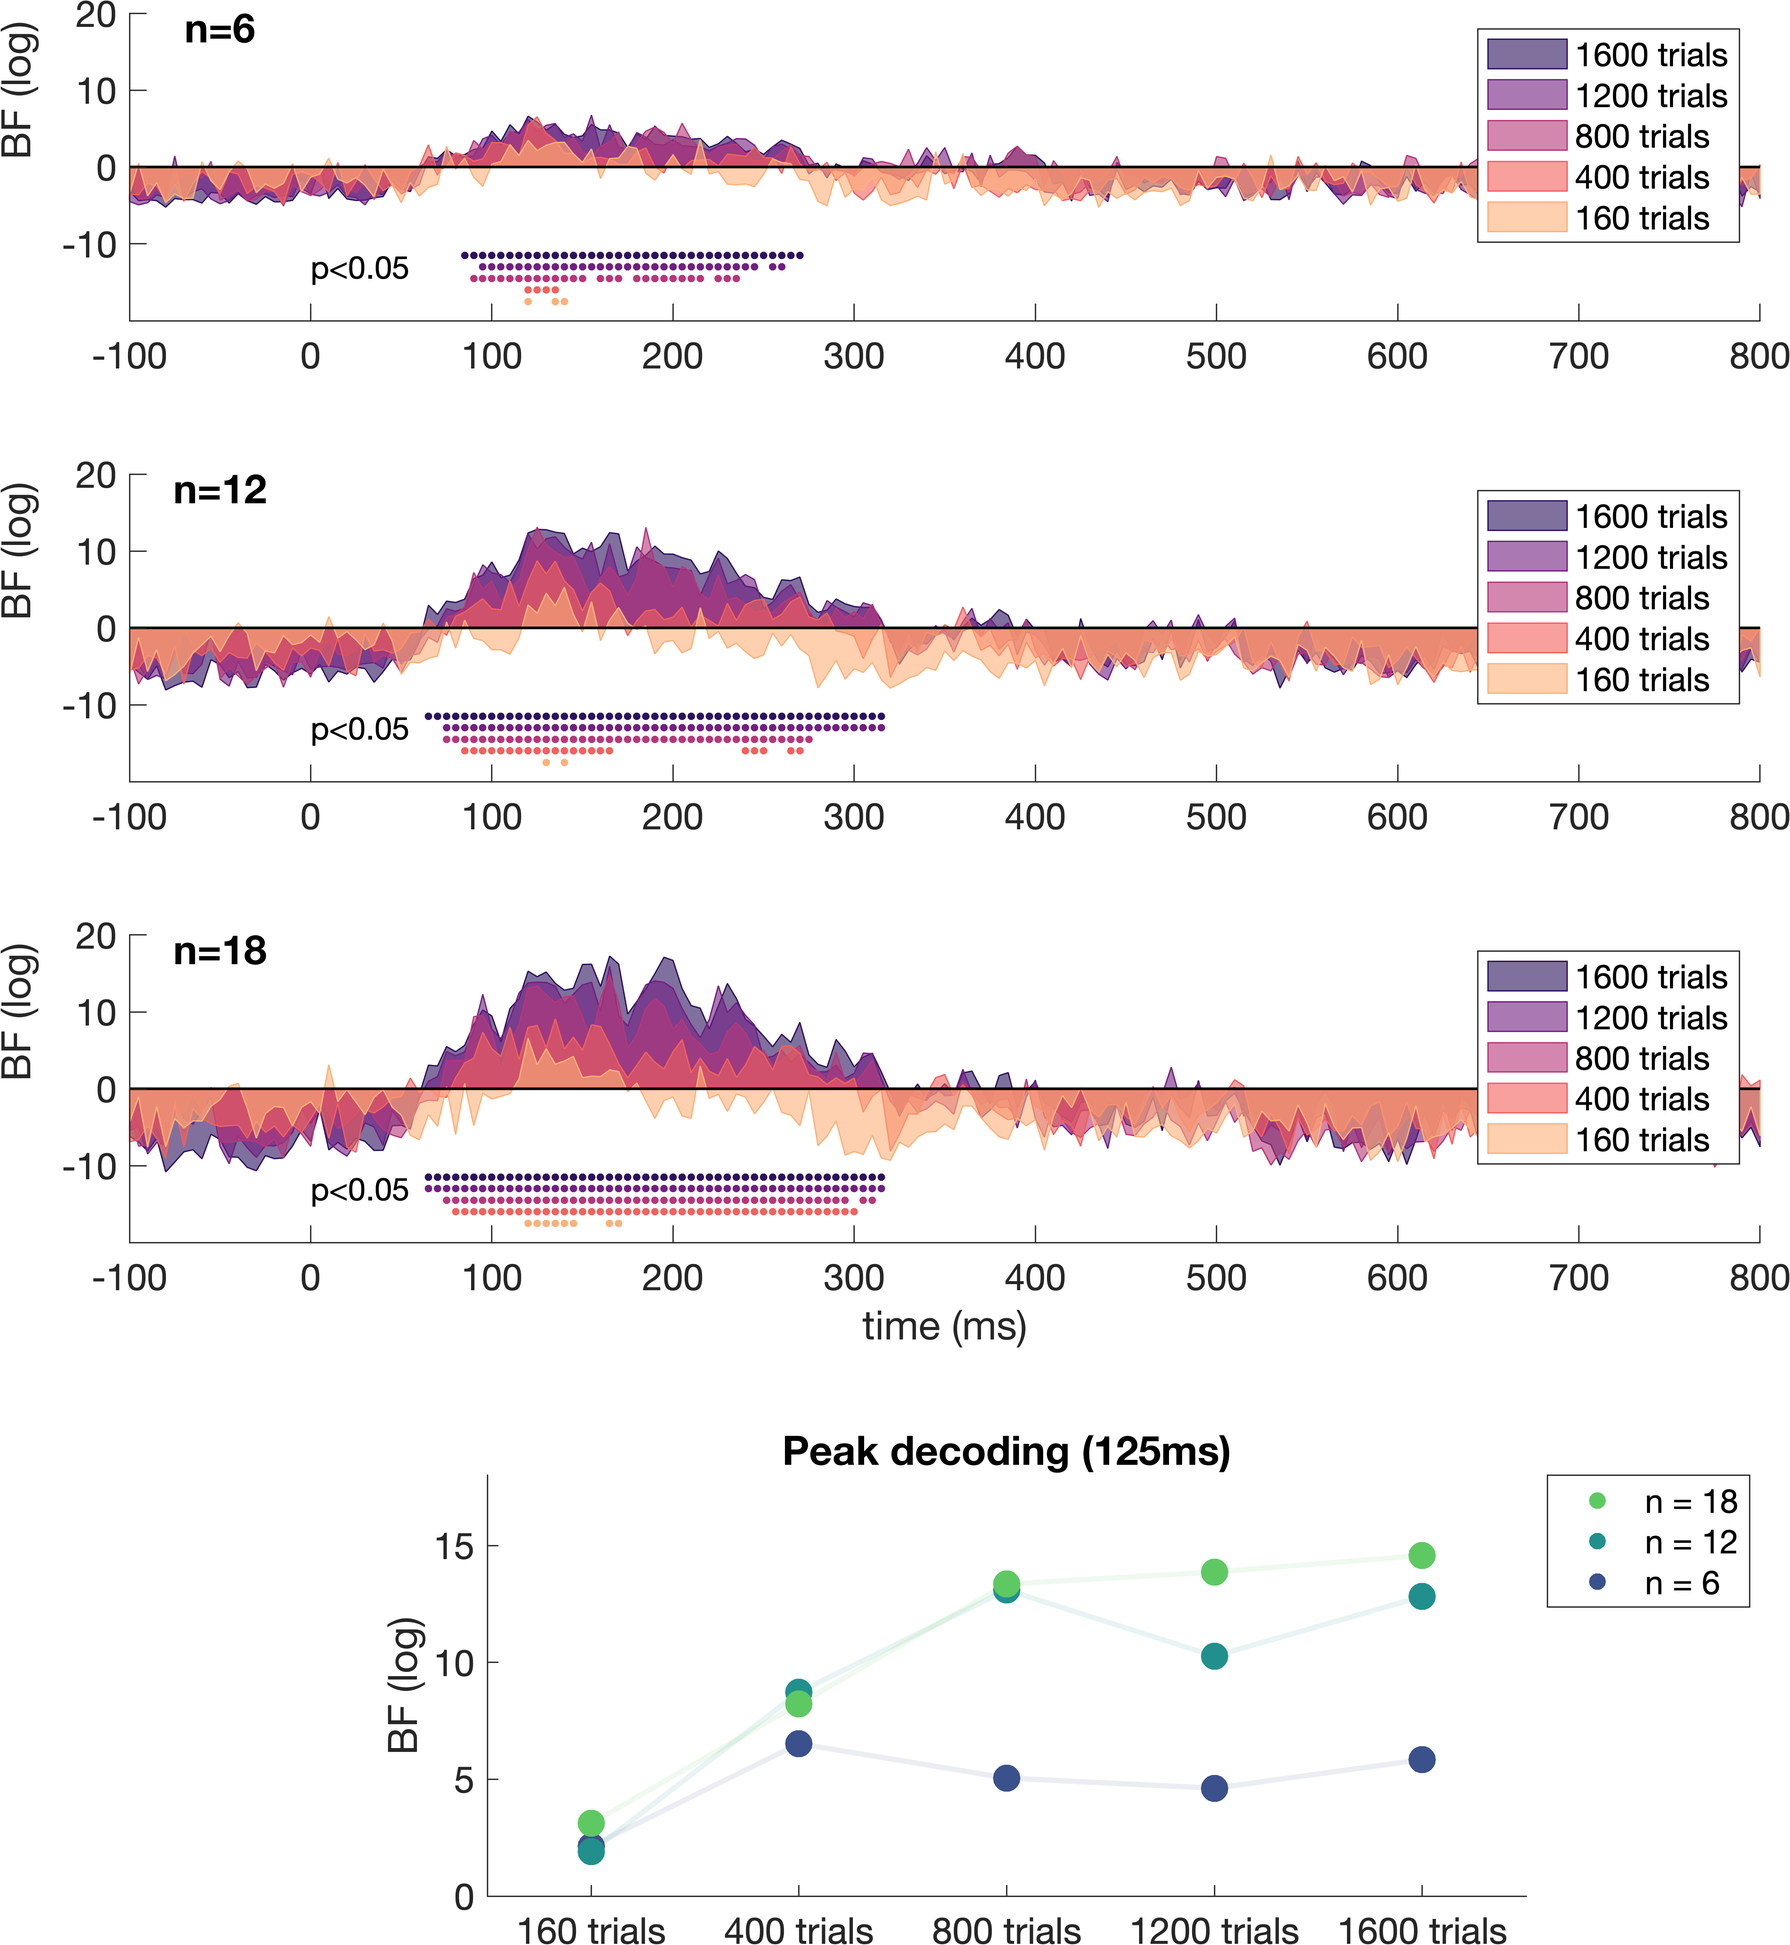
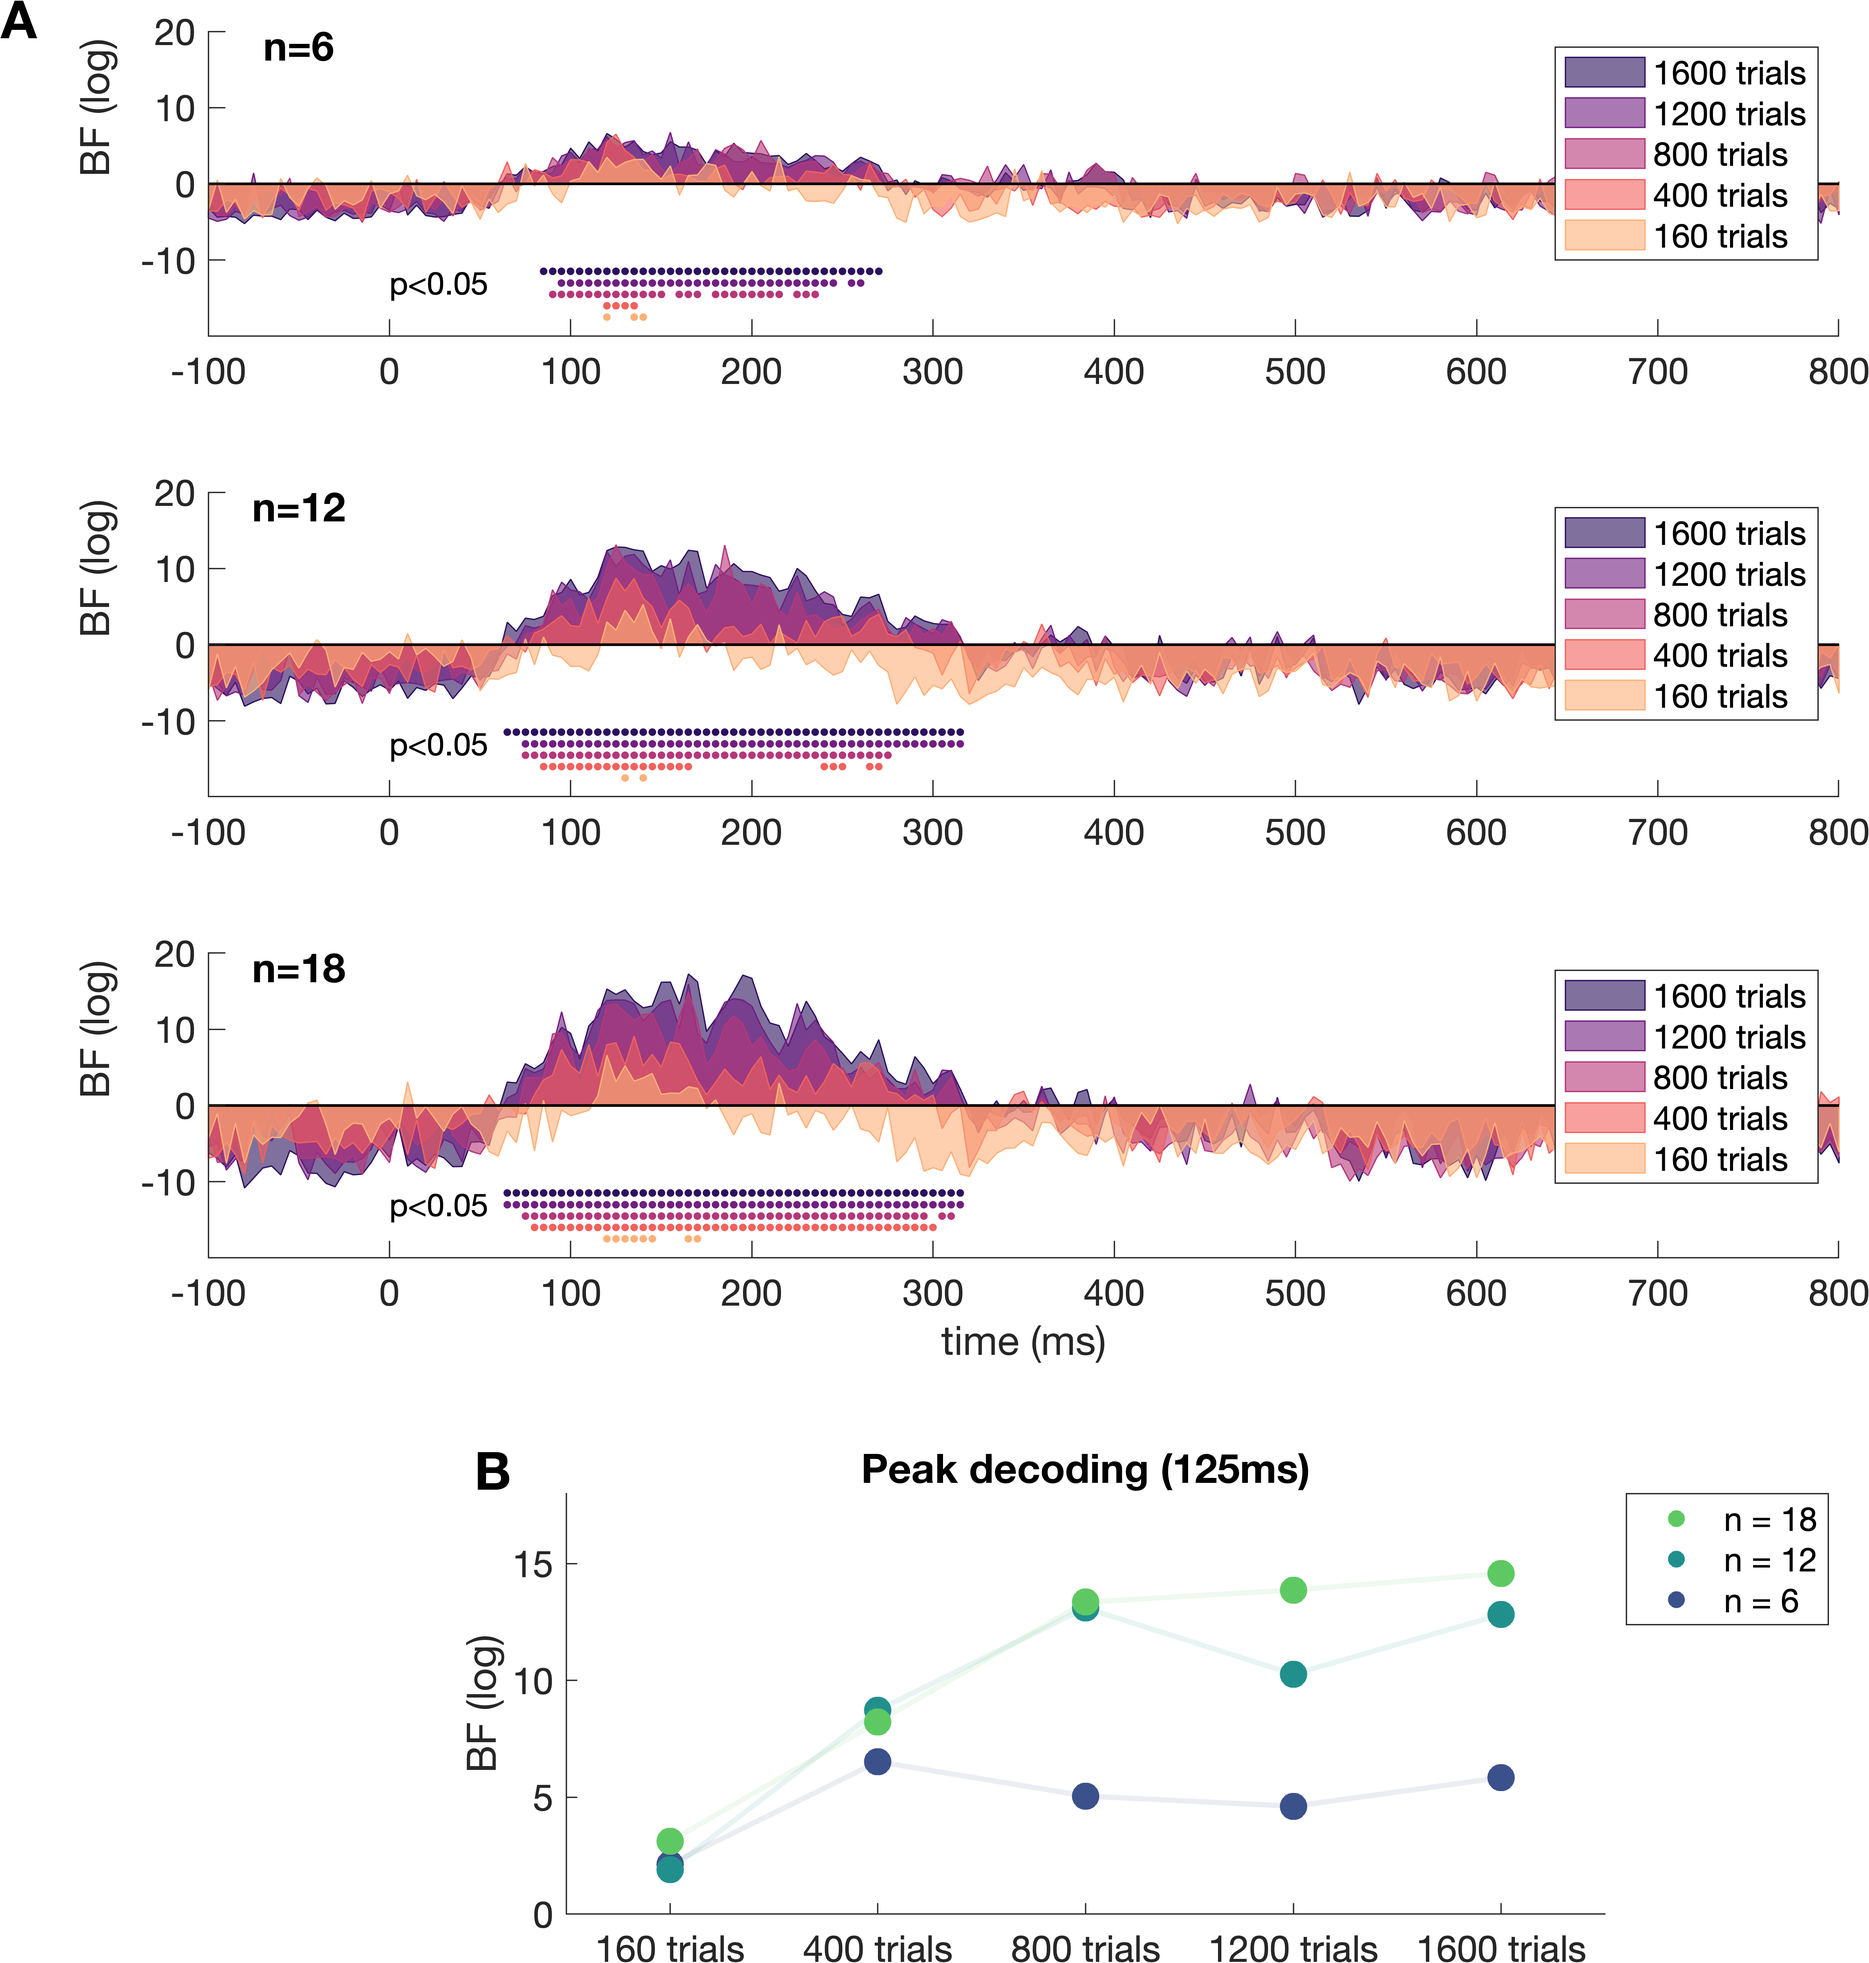
commit

diff --git a/codes/plot_subsampling.m b/codes/plot_subsampling.m
@@ -89,6 +89,11 @@ l.Location='northeastoutside';
 
 title('Peak decoding (125ms)')
 
+annotation('textbox',[.025,.91,.4,.04],'String','A','FontSize',20,'FontWeight','bold','LineStyle','none')
+annotation('textbox',[.25,.22,.4,.04],'String','B','FontSize',20,'FontWeight','bold','LineStyle','none')
+
+
+
 % save
 fn = sprintf('../figures/figure_subsampling');
 tn = tempname;
